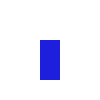
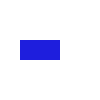
Image pour toutes les pieces + résolutions problemes bouton pour pieces

Changed region(s): [[0.18, 0.39, 0.6, 0.81]]

diff --git a/main.py b/main.py
@@ -1,6 +1,23 @@
 import grid as g
 import player as p
 from tkinter import *
+from PIL import Image, ImageTk
+from functools import partial
+import shutil
+
+
+def count(mainCount):
+    if mainCount == 0:
+        print("1")
+        shutil.rmtree('pieces/blue')
+        shutil.copytree('pieces/Start/blue', 'pieces/blue')
+        shutil.rmtree('pieces/red')
+        shutil.copytree('pieces/Start/red', 'pieces/red')
+        shutil.rmtree('pieces/yellow')
+        shutil.copytree('pieces/Start/yellow', 'pieces/yellow')
+        shutil.rmtree('pieces/green')
+        shutil.copytree('pieces/Start/green', 'pieces/green')
+        return mainCount + 1
 
 
 def takeCoord(event):
@@ -21,6 +38,9 @@ def takeCoord(event):
 def modifPiece(event):
     if event.keysym == 'r':
         player1.rotationPieces(piece)
+        image = Image.open(player1.namePieceListImg[piece])
+        imRotate = image.rotate(-90)
+        imRotate.save(player1.namePieceListImg[piece])
     if event.keysym == 's':
         player1.symmetryPieces(piece)
 
@@ -45,10 +65,19 @@ def available(x, y):
 def pieceFollowing(event):
     x, y = event.x, event.y
 
+    '''img = Image.open(player1.namePieceListImg[piece])
+    img = ImageTk.PhotoImage(img)
+    mapimg = game.create_image(330, 330, image=img, anchor='nw')'''
+
+    fileImg = player1.namePieceListImg[piece]
+    img = PhotoImage(file=fileImg)
+    temp[fileImg] = img
+    img = game.create_image(330, 330, image=img, anchor='nw')
+
     if x > 830 or x < 30 or y > 830 or y < 30:
-        game.coords(mapimg, 330, 330)
+        availablePiecesDisplay()
     else:
-        game.coords(mapimg, x - 50, y - 50)
+        game.coords(img, x - 50, y - 50)
 
 
 def availablePiecesDisplay():
@@ -67,20 +96,21 @@ def availablePiecesDisplay():
                 img = PhotoImage(file=fileImg)
                 temp[fileImg] = img
                 informations.create_image(oX + (100 + space) * j, oY + (100 + space) * i, image=img, anchor='nw')
+                btn = Button(informations, image=img, command=partial(selectionPiece, num))
+                btn.place(x=oX + (100 + space) * j, y=oY + (100 + space) * i)
 
 
-def changeColor(player, piece):
-    temp = {}
-    fileImg = player.namePieceListImg[piece]
-    img = PhotoImage(file=fileImg)
-    temp[fileImg] = img
-    for y in range(img.height()):
-        for x in range(img.width()):
-            img.put(player.color, (x, y))
+def selectionPiece(num):
+    global piece
+    piece = num
+    informations.create_text(329, 200, text=num)
+    availablePiecesDisplay()
 
 
+mainCount = 0
+mainCount = count(mainCount)
 
-piece = 13
+piece = 1
 numberCells = 20
 sizeCells = 40
 
@@ -105,14 +135,9 @@ informations = Canvas(window, width=658, height=860)
 informations.grid(row=0, column=1)
 
 jeu.creationGridTk(game)
-player1 = p.Player("red", "B", jeu)
-
-img = PhotoImage(file=player1.namePieceListImg[piece])
-mapimg = game.create_image(330, 330, image=img, anchor='nw')
+player1 = p.Player("blue", "B", jeu)
 
 availablePiecesDisplay()
-
-changeColor(player1, 1)
 
 game.bind('<Button-1>', takeCoord)
 

diff --git a/test.py b/test.py
@@ -1,34 +1,9 @@
-from tkinter import *
+from PIL import Image
 
-class Colors(Frame):
-    def __init__(self):
-        Frame.__init__(self)
-        self._image = PhotoImage(file="piece1.png")
-        self._imageLabel = Label(self, image=self._image)
-        self._imageLabel.grid()
+image = Image.open('piece5.png')
 
-        self.master.title("Color Changer")
-        self.grid()
+# rotate 270 degrees counter-clockwise
+imRotate = image.rotate(90)
+filename = 'piece5.png'
+imRotate.save(filename)
 
-        self.red = Scale(self, from_=0, to=255, label="Red", fg="red", )
-        self.red.grid(row=0, column=1)
-
-        self.green = Scale(self, from_=0, to=255, label="Green", fg='green')
-        self.green.grid(row=0, column=2)
-
-        self.blue = Scale(self, from_=0, to=255, label="Blue", fg="blue")
-        self.blue.grid(row=0, column=3)
-
-        self.button = Button(self, text="Change Colors", command=self.changeColor)
-        self.button.grid(row=1, column=2)
-
-    def changeColor(self):
-        red = self.red.get()
-        blue = self.blue.get()
-        green = self.green.get()
-        for y in range(self._image.height()):
-            for x in range(self._image.width()):
-                self._image.put("#%02x%02x%02x" % (red,green,blue), (x, y))
-
-def main():
-    Colors().mainloop()
